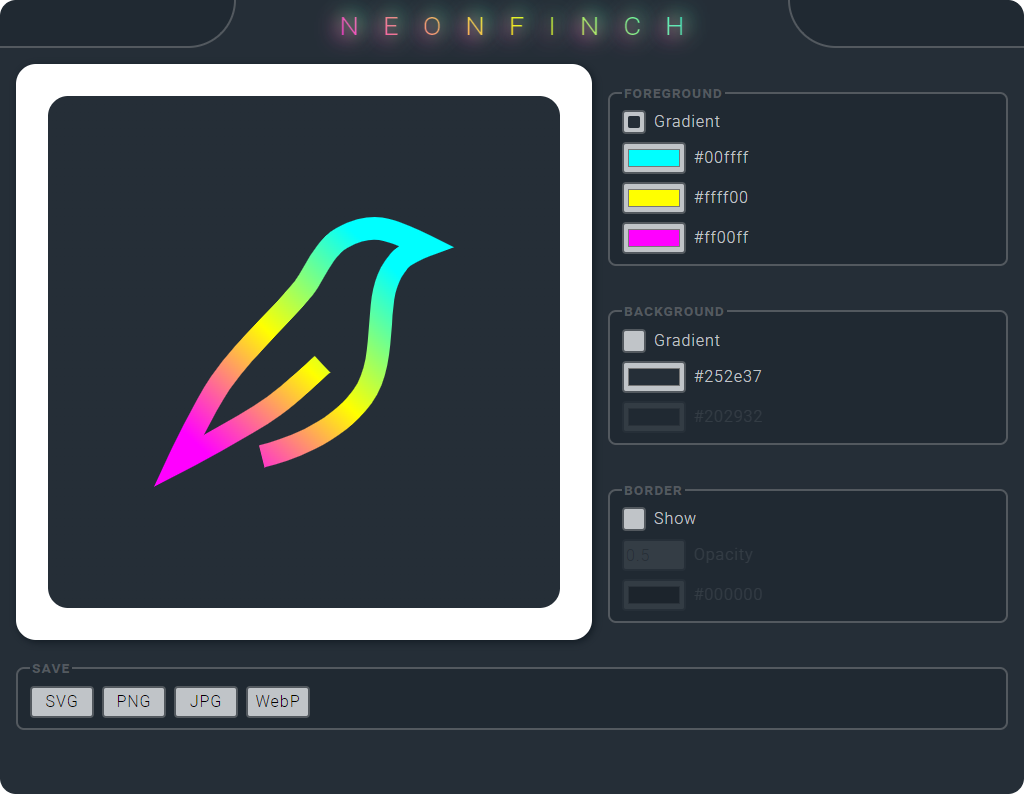
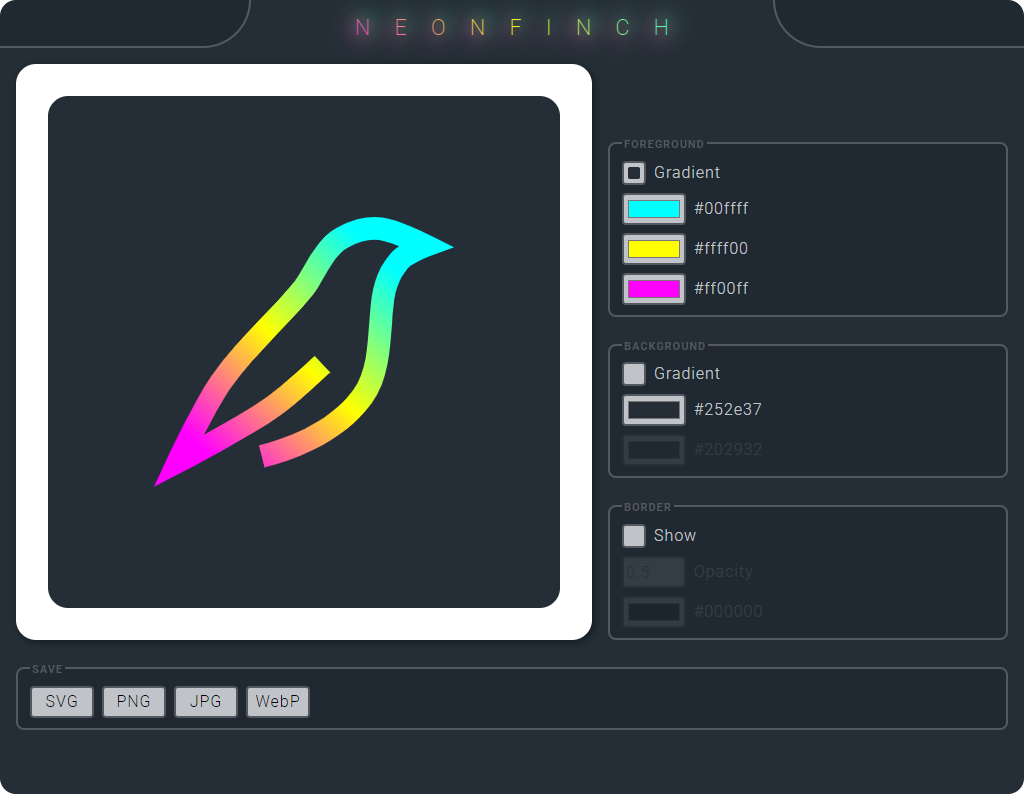
Improve modifiers alignment

diff --git a/src/routes/+page.svelte b/src/routes/+page.svelte
@@ -99,7 +99,7 @@
         display: flex;
         flex-direction: column;
         align-items: flex-start;
-        justify-content: space-evenly;
+        justify-content: flex-end;
         gap: 16px;
     }
 
